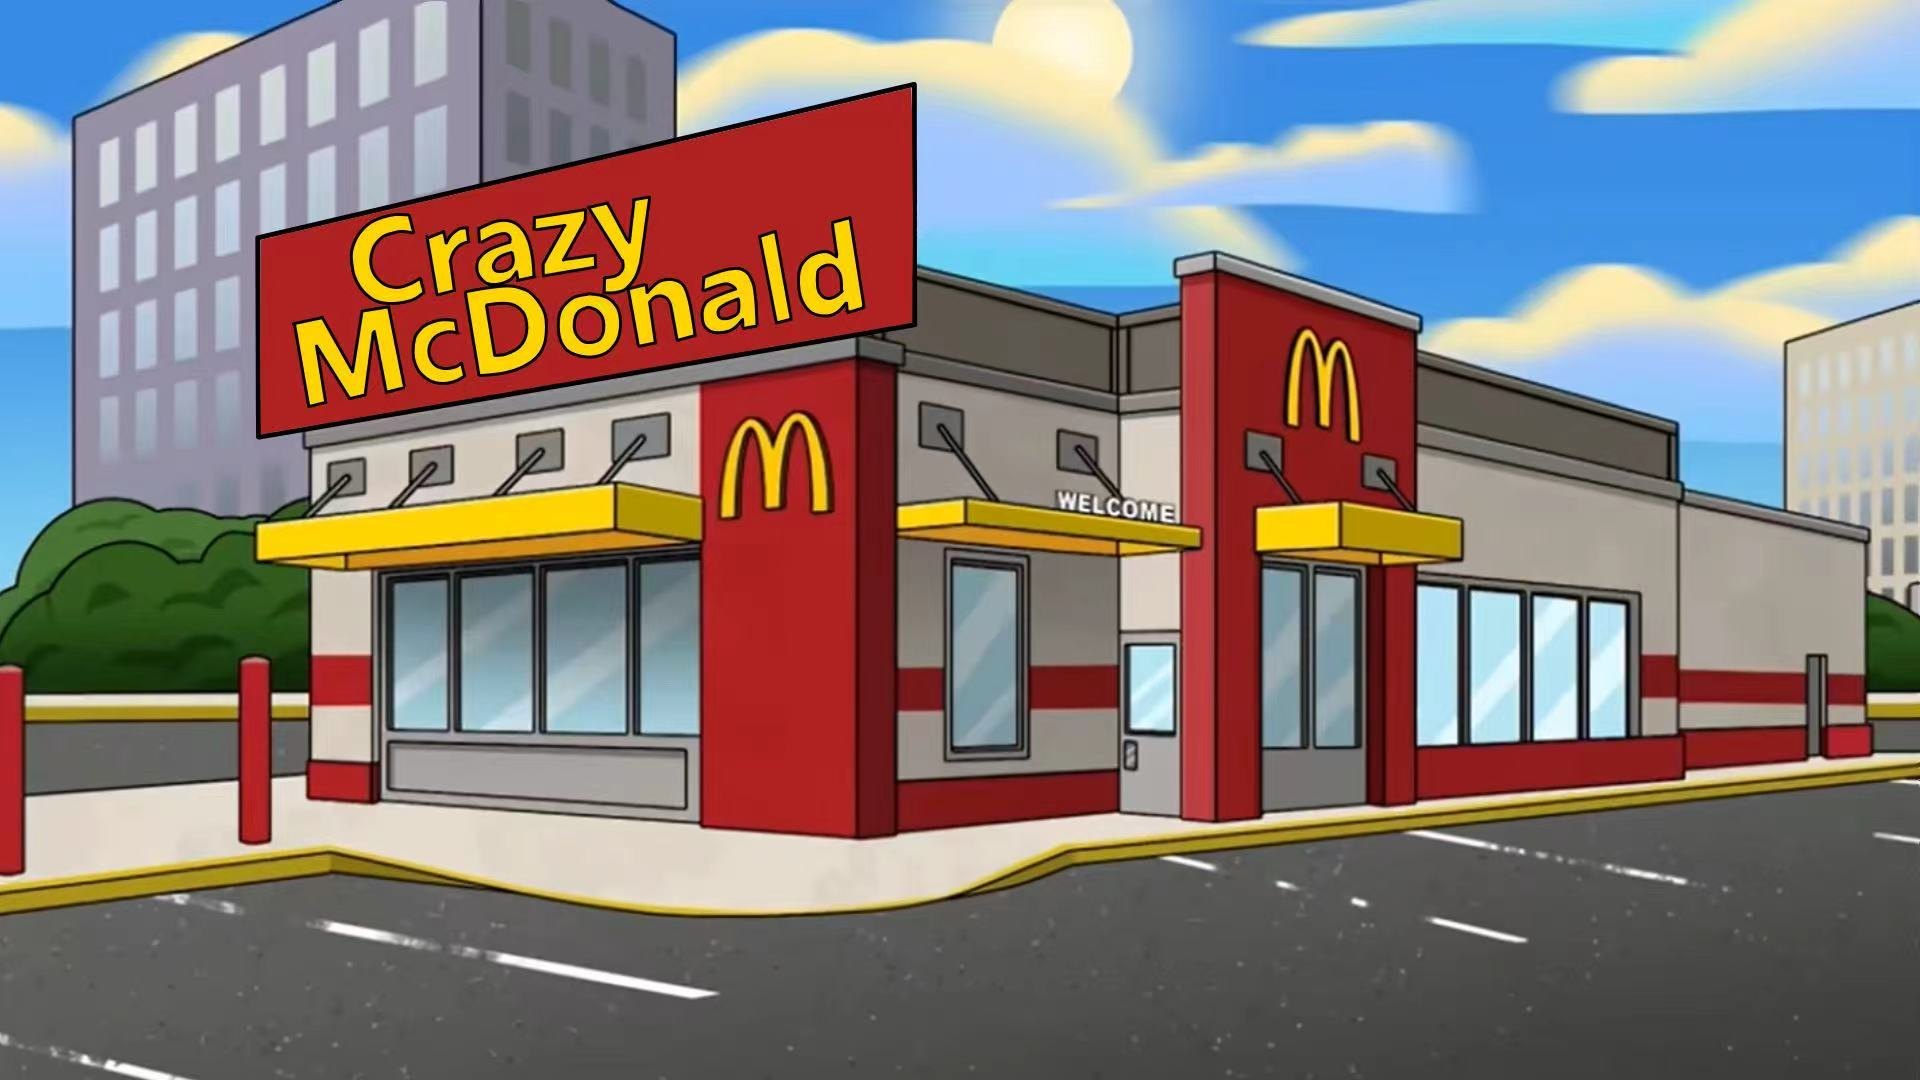
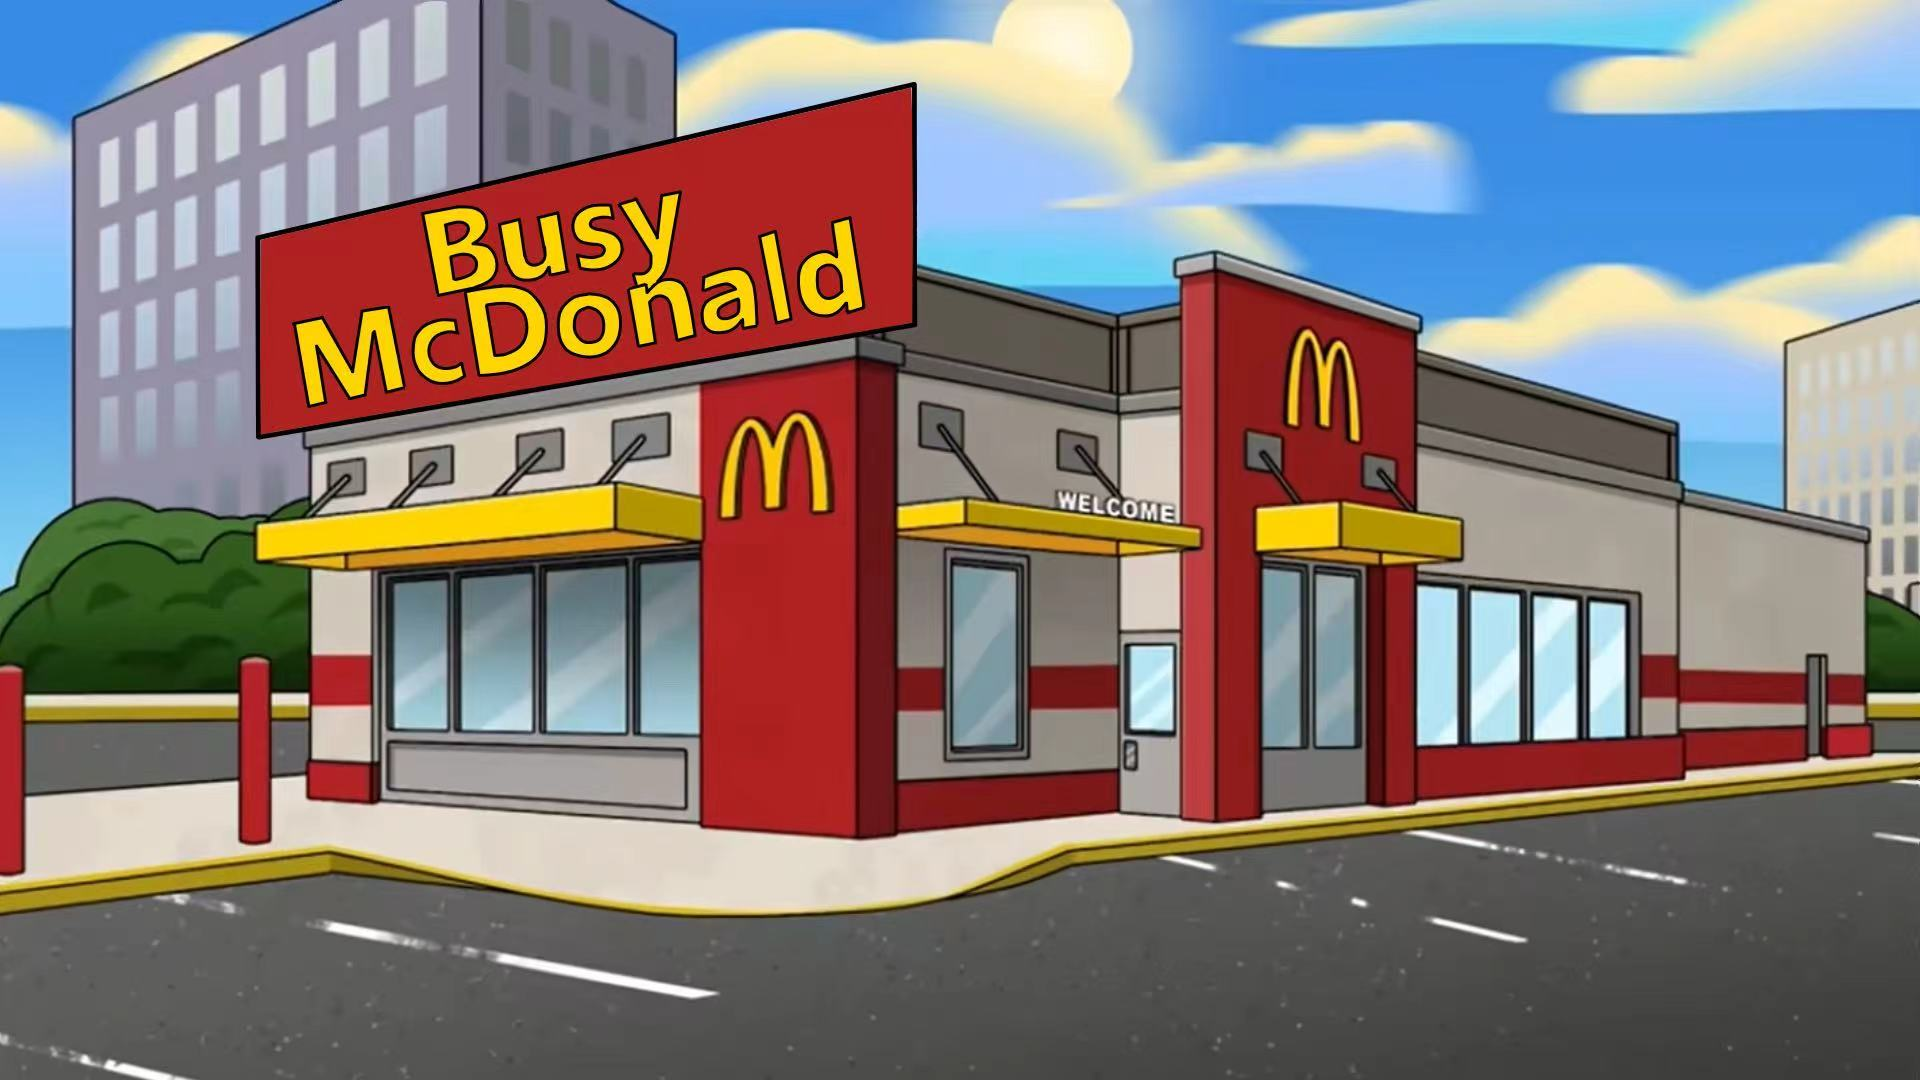
add pairup page

Changed region(s): [[0.1562, 0.1833, 0.375, 0.3056]]

diff --git a/client/public/scripts/ui.js b/client/public/scripts/ui.js
@@ -17,6 +17,7 @@ const FrontPage = (function(){
     
     const hide = function(){
         $("#start-btn").fadeOut(500);
+        $("#front-bg.title").fadeOut(500);
     }
 
     return {initialize, show, hide};
@@ -120,6 +121,14 @@ const RegisterForm = (function(){
 const InstructionPage = (function(){
     const initialize = function(){
         $(".front.instruction").hide();
+
+        $(".submit-btn.next").click((e) => {
+            e.preventDefault();
+            FrontPageAudio.playBtnAudio();
+
+            hide();
+            PairupPage.show();
+        });
     }
 
     const show = function(){
@@ -158,14 +167,108 @@ const Toast = (function(){
     return {initialize, show, hide};
 })();
 
+const PairupPage = (function(){
+    let findingTimer;
+    let findingCount = 0;
+    let timeCount = 4;
+
+    const initialize = function(){
+        $("#pairup-bg-filter").hide();
+        $(".front.pairup").hide();
+        $("#waiting-container").hide();
+    };
+
+    const show = function(){
+        $("#pairup-bg-filter").fadeIn(500);
+        $(".front.pairup").show();
+        showFinding();
+    };
+
+    const hide = function(){
+        $("#pairup-bg-filter").hide();
+        $(".front.pairup").hide();
+    };
+
+    const showFinding = function(){
+        $("#pairup-header.finding").fadeIn(500);
+        $("#waiting-container").fadeIn(500);
+
+        if(findingTimer){
+            clearTimeout(findingTimer);
+            findingTimer = null;
+        }
+
+        function animateDots() {
+            findingCount = findingCount % 3 + 1;
+            const dots = ".".repeat(findingCount);
+            $("#pairup-header.finding span").text(dots);
+            
+            findingTimer = setTimeout(animateDots, 1000);
+        }
+
+        animateDots();
+    }
+
+    const hideFinding = function(){
+        $("#pairup-header.finding").hide();
+        $("#waiting-container").hide();
+
+        if(findingTimer){
+            clearTimeout(findingTimer);
+            findingTimer = null;
+        }
+    }
+
+    const showMatched = function(){
+        hideFinding();
+        let header = $("#pairup-header");
+        if(header.hasClass("finding")){
+            header.removeClass("finding");
+        }
+        header.addClass("match");
+        header.text("Match found!<br>Get ready to cook!");
+        $("#pairup-header").show();
+
+        setTimeout(hideMatched, 1500)
+    }
+
+    const hideMatched = function(){
+        $("#front-header.match").fadeOut(500);
+    }
+
+    const showCountdown = function(){
+        $("#countdown").fadeIn(500);
+        function countdown(){
+            timeCount--;
+            if(timeCount > 0){
+                $("#countdown").text(timeCount);
+                setTimeout(countdown, 1000);
+            }
+            else{
+                $("#countdown").text("Start!");
+                setTimeout(UI.hideFront, 1000);
+            }
+        }
+        countdown();
+    }
+
+    return { initialize, show, hide, showFinding, hideFinding, showMatched, showCountdown };
+})();
+
 const UI = (function(){
-    const components = [LoginForm, RegisterForm, FrontPage, Toast, InstructionPage];
+    const frontComponents = [LoginForm, RegisterForm, FrontPage, Toast, InstructionPage, PairupPage];
 
     const initialize = function() {
-        for (const component of components) {
+        for (const component of frontComponents) {
             component.initialize();
         }
     };
 
-    return { initialize };
+    const hideFront = function(){
+        for(const component of frontComponents){
+            component.hide();
+        }
+    }
+
+    return { initialize, hideFront };
 })();

diff --git a/client/public/index.html b/client/public/index.html
@@ -4,13 +4,14 @@
     <meta charset="UTF-8">
     <meta name="viewport" content="width=device-width, initial-scale=1.0">
     <script src="https://code.jquery.com/jquery-3.7.1.min.js"></script>
-    <link rel="stylesheet" href="index.css"/>
+    <link rel="stylesheet" href="assets/index.css"/>
     <title>Document</title>
 </head>
     <body>
         <!-- Game Start Page -->
         <div class="bg-container">
             <img id="front-bg" class="" src="img/background.jpg" alt="Game Front Page Background"/>
+            <img id="front-bg" class="title" src="img/title.png" alt="Busy McDonald"/>
         </div>
         <button id="start-btn">Start</button>
 
@@ -46,9 +47,9 @@
             <h1 class="front-header">Instruction</h1>
             <div class="front-container instruction">
                 <p>You are a <strong>chef</strong> in the McDonald. </p>
-                <p>Customers will place orders, which will appear at the <strong>bottom</strong> of the. Each order shows the required food items (e.g., hamburger, fries, drink) and a time limit.</p>
+                <p>Customers will place orders, which will appear at the <strong>bottom</strong> of the. Each order shows the required food items (e.g., hamburger, fries, drink).</p>
                 <p>You need to <strong>collect and submit the correct ingredients</strong> for making the food items in the order.</p>
-                <p>If you fail to complete an order before its timer runs out, it will expire and be removed.</p>
+                <p>If you fail to complete an order within 20 seconds, it will expire and be removed.</p>
                 <h3>Controls:</h3>
                 <div class="controls-container">
                     <div class="action-container">
@@ -68,7 +69,19 @@
                 <p>When the game time ends, the player with the <strong>highest total income wins</strong>! If players have the same income, the game is declared a tie.</p>
                 <p class="cheat">Press Spacebar to activate Cheat Mode~ Your character will move faster to collect ingredients and complete orders much more quickly.</p>
             </div>
+            <button class="submit-btn next">Next</button>
         </section>
+
+        <!-- Game Pair Up Page -->
+        <div id="pairup-bg-filter"></div>
+        <section class="front pairup">
+            <h3 id="pairup-header" class="finding">Finding the perfect opponent for you<span>.</span></h3>
+            <h3 id="count-down"></h3>
+        </section>
+        <div id="waiting-container">
+            <img src="img/mcdonald-character.png" alt="Ronald McDonald"/>
+            <div class="chat-bubble">Picking up the right ingredients will truly save you precious time in completing each order! But keep in mind, you can only select up to 4 items—so choose wisely and give it your best shot!</div>
+        </div>
 
         <!-- Toast Message -->
         <div id="toast" class="toast"></div>

diff --git a/client/public/assets/index.css b/client/public/assets/index.css
@@ -22,6 +22,7 @@ html, body {
     padding: 0;
     height: 100%;
     width: 100%;
+    overflow: hidden;
 }
 
 .bg-container {
@@ -82,7 +83,7 @@ html, body {
 
 .front-header{
     color: var(--front-caption-color);
-    margin-bottom: 10px;
+    margin-bottom: 2px;
     margin-top: 0;
     font-size: 40px !important;
 }
@@ -160,6 +161,7 @@ span.a{
 .front-container.instruction{
     width: 1000px;
     height: 500px;
+    padding-top: 10px;
 }
 
 .front-container p{
@@ -280,4 +282,81 @@ p.cheat{
 
 .toast.show {
     top: 20px;
+}
+
+.submit-btn.next{
+    width: 130px;
+    height: 55px;
+    font-size: 28px;
+    transform: translateY(-25px);
+}
+
+#pairup-bg-filter{
+    background-color:rgba(255, 255, 255);
+    opacity: 0.6;
+    position: absolute;
+    width: 100%;
+    height: 100%;
+    top: 0;
+    left: 0;
+}
+
+#pairup-header{
+    color: var(--front-caption-color);
+    font-size: 40px;
+    white-space: nowrap;
+    text-align: center;
+}
+
+#pairup-header.match{
+    color: rgb(255, 77, 0);
+}
+
+#pairup-header.finding span{
+    width: 20px;
+    display: inline-block;
+}
+
+#count-down{
+    color: rgb(255, 77, 0);
+    font-size: 108px;
+}
+
+#waiting-container{
+    width: 800px;
+    position: absolute;
+    bottom: -50px;
+    left: -150px;
+}
+
+#waiting-container img{
+    background-clip: border-box;
+    background-repeat: no-repeat;
+    height: 400px;
+}
+
+.chat-bubble {
+    background: white;
+    border: 1px solid black;
+    align-self: flex-start;
+    margin-left: 15px;
+    max-width: 80%;
+    padding: 12px 16px;
+    border-radius: 8px;
+    position: absolute;
+    top: 0;
+    left: 400px;
+}
+
+.chat-bubble::before {
+    content: '';
+    position: absolute;
+    left: -6px;
+    bottom: 10px;
+    width: 10px;
+    height: 10px;
+    border-left: 1px solid black;
+    border-bottom: 1px solid black;
+    background: white;
+    transform: rotate(45deg);
 }
